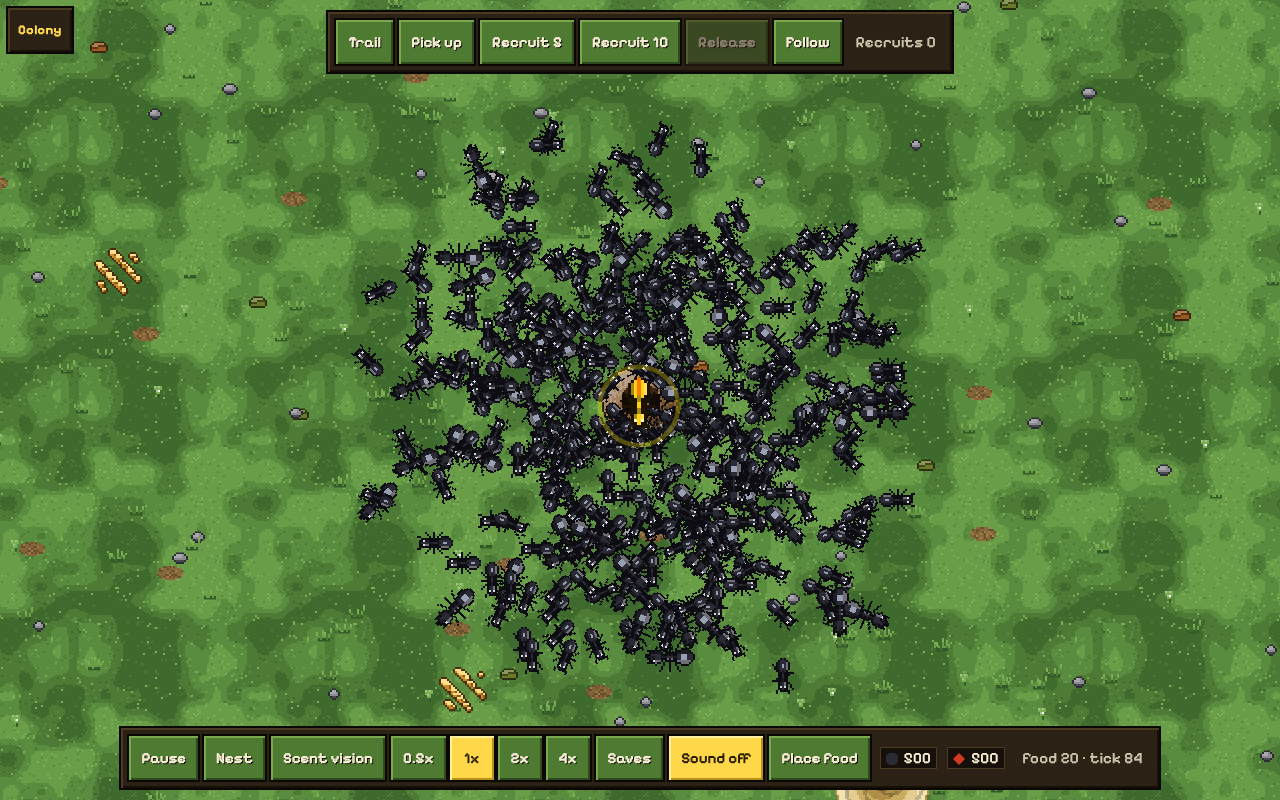
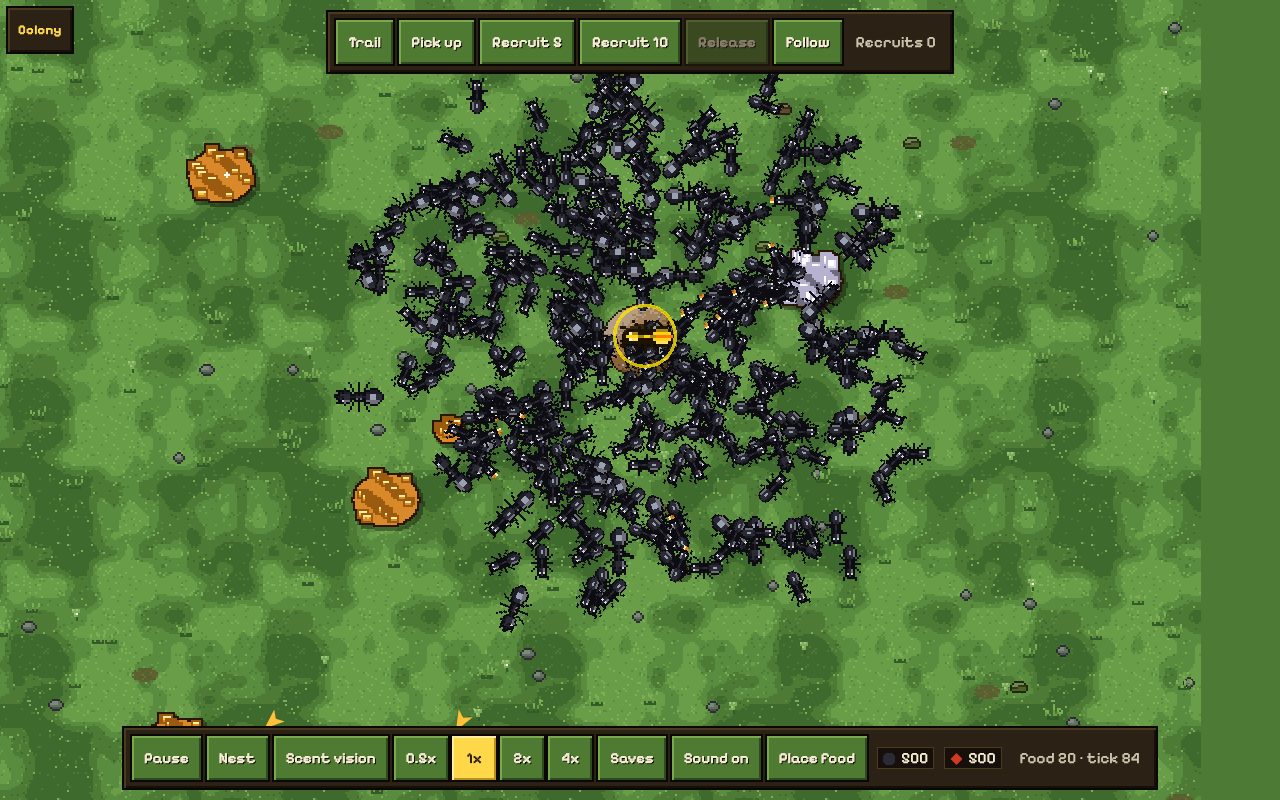
feat(art): food visibility pass, docs and screenshots

diff --git a/apps/web/src/art/sprites/world.ts b/apps/web/src/art/sprites/world.ts
@@ -50,38 +50,36 @@ export function foodTexture(atlas: Atlas, kind: FoodKind, r: number, variant: nu
     const seed = variant * 31 + r;
     if (kind === 'crumb') {
       // Darker base heap so the chunks never leave grass showing through the pile.
-      px.ellipse(c, c + 1, r - 1, (r - 1) * 0.8, f.crumb[0]);
-      const n = Math.max(3, Math.round(r * r * 0.5));
-      const big = r >= 8;
+      px.ellipse(c, c + 1, r - 1, (r - 1) * 0.8, f.crumb[1]);
+      // Chunk size grows with the pile so a big heap shows bold pieces, not noise.
+      const n = Math.max(3, Math.round(r * r * (r >= 8 ? 0.2 : 0.3)));
       for (const s of scatter(n, r - 2, seed)) {
-        const w = big && s.h > 0.5 ? 5 : s.h > 0.45 ? 4 : 3;
-        const h = w > 3 ? 4 : 3;
+        const w = (r >= 8 ? 5 : 4) + (s.h > 0.5 ? 1 : 0);
+        const h = w - 1;
         const x = Math.round(c + s.x - w / 2);
         const y = Math.round(c + s.y - h / 2);
-        px.rect(x, y, w, h, f.crumb[2]);
-        px.rect(x, y, w, 1, f.crumb[3]);
-        px.rect(x + w - 1, y + 1, 1, h - 1, f.crumb[1]);
-        px.rect(x, y + h - 1, w, 1, f.crumb[1]);
-        px.set(x, y + h - 1, f.crumb[0]);
-        px.set(x + w - 1, y + h - 1, f.crumb[0]);
-        // Sesame-like speck on some chunks.
-        if (s.h > 0.7) px.set(x + 1, y + 1, f.crumb[1]);
+        // Bread chunk: dark crust edge, lit top face, shaded right and bottom.
+        px.rect(x, y, w, h, f.crumb[0]);
+        px.rect(x + 1, y + 1, w - 2, h - 2, f.crumb[2]);
+        px.rect(x + 1, y + 1, w - 2, 1, f.crumb[3]);
+        px.rect(x + w - 2, y + 2, 1, h - 3, f.crumb[1]);
+        px.rect(x + 1, y + h - 2, w - 2, 1, f.crumb[1]);
+        if (s.h > 0.75) px.set(x + 2, y + 2, f.crumb[1]);
       }
       px.outline(f.outline, true);
     } else if (kind === 'sugar') {
-      px.ellipse(c, c + 1, r - 1, (r - 1) * 0.8, f.sugar[0]);
-      const n = Math.max(2, Math.round(r * r * 0.32));
+      px.ellipse(c, c + 1, r - 1, (r - 1) * 0.8, darken(f.sugar[0], 0.4));
+      const n = Math.max(2, Math.round(r * r * (r >= 8 ? 0.22 : 0.3)));
       for (const s of scatter(n, r - 2, seed + 7)) {
-        const w = r >= 8 && s.h > 0.5 ? 5 : 4;
+        const w = r >= 8 ? 6 : 5;
         const x = Math.round(c + s.x - w / 2);
         const y = Math.round(c + s.y - w / 2);
-        px.rect(x, y, w, w, f.sugar[2]);
-        px.rect(x + w - 1, y + 1, 1, w - 1, f.sugar[1]);
-        px.rect(x, y + w - 1, w, 1, f.sugar[0]);
-        // Facet line gives each cube a top face.
-        px.rect(x, y, w - 1, 1, f.sugar[2]);
-        px.set(x + w - 1, y, f.sugar[1]);
-        if (s.h > 0.62) px.set(x + 1, y + 1, f.sugar[3]);
+        // Cube: grey-lilac edge, bright top-left face, shaded right and bottom.
+        px.rect(x, y, w, w, f.sugar[0]);
+        px.rect(x + 1, y + 1, w - 2, w - 2, f.sugar[2]);
+        px.rect(x + w - 2, y + 1, 1, w - 2, f.sugar[1]);
+        px.rect(x + 1, y + w - 2, w - 2, 1, f.sugar[1]);
+        if (s.h > 0.55) px.set(x + 2, y + 2, f.sugar[3]);
       }
       px.outline(f.outline, true);
     } else {

diff --git a/apps/web/src/worldLayer.ts b/apps/web/src/worldLayer.ts
@@ -84,8 +84,8 @@ export class WorldLayer {
       for (const child of this.food.removeChildren()) child.destroy();
       this.piles = [];
       for (const f of snapshot.food) {
-        // Visual size follows remaining amount (area ~ amount), a touch over the pickup radius.
-        const r = Math.max(8, Math.min(f.radius, Math.sqrt(f.amount) * 0.6) * 1.2);
+        // Visual size follows remaining amount (area ~ amount), well over the pickup radius.
+        const r = Math.max(8, Math.min(f.radius, Math.sqrt(f.amount) * 0.6) * 1.5);
         const kind: FoodKind = this.corpses.has(f.id)
           ? 'corpse'
           : f.id % 3 === 0

diff --git a/docs/ART.md b/docs/ART.md
@@ -26,6 +26,22 @@ apps/web/scripts/brand.mjs   the pixel ant mark shared by the PWA and native ico
 - **Colour is never the only cue.** Colony 0 has a round abdomen and a pale spot, colony 1 a pointed
   abdomen with two pale bands, the player a bright stripe. HUD pips are a circle and a diamond.
 
+## Food
+
+Food must be the easiest thing on the lawn to find, so it follows a few rules:
+
+- **Chunky, outlined, shadowed.** Piles are heaps of bread chunks, sugar cubes or a beetle husk, each
+  with a dark 1-px ring and a drop shadow; piece count follows the pile's area so it visibly shrinks
+  as it is eaten (never below 4 art pixels in radius).
+- **Decor stays out of its way.** Bare-earth patches, pebbles and leaves are muted and darker than
+  food, so nothing decorative shares its hue or lightness.
+- **Per-palette colours.** `Palette.food` holds the crumb, sugar, husk, sparkle and ring colours;
+  `palette.test.ts` checks they beat the lawn under each simulated deficiency.
+- **Readability aids.** A slow twinkle on each pile (off with Reduce motion), a minimum on-screen
+  size when zoomed out (`worldLayer.ts`), edge-of-screen arrows toward off-screen piles
+  (`foodArrows.ts`, Settings → Display → Food arrows) and a highlighted Pick up button while a pile
+  is within reach. Piles draw above the scent-vision overlay.
+
 ## Accessibility palettes
 
 Settings → Display → Colour palette: default, deuteranopia, protanopia, tritanopia, high contrast.
